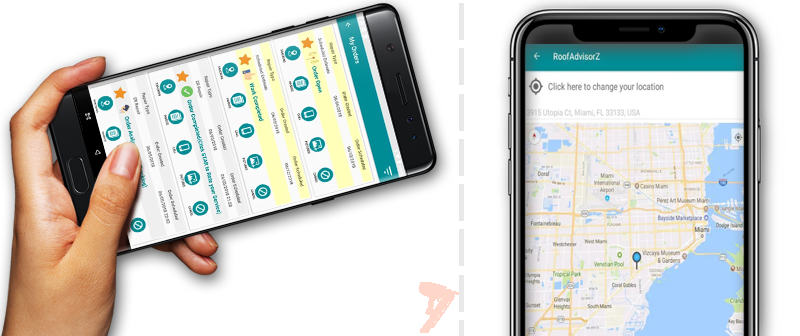
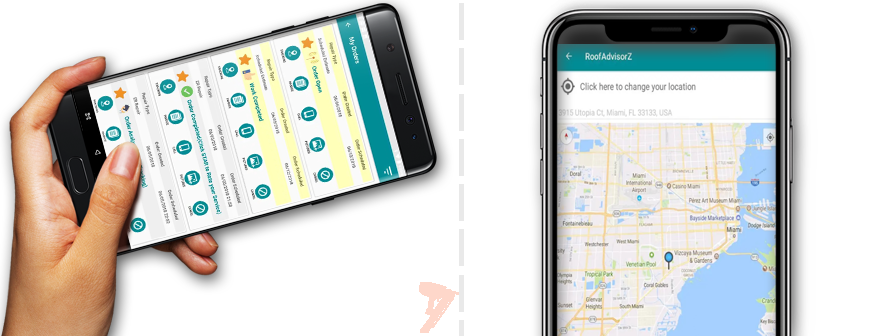
design updates merger mauro funct

diff --git a/src/style.css b/src/style.css
@@ -1368,18 +1368,18 @@ font-size: 144px;
 }
 #appand1{
     float: right;
-    width: 41%;
-    margin-top: -25px;
+    width: 40%;
 }
 #appand2{
     float: left;
-    width: 35%;
+    width: 40%;
 }
 #appphone1{
-display: block;
+    display: block;
     margin-left: auto;
     margin-right: auto;
     margin-bottom: -10px;
+    padding-right: 4%;
 }
 #aphtxt1{
 font-size:5em;
@@ -1771,8 +1771,9 @@ display:none !important;
 .mobpower1{
 display:block !important;
 }
-
-
+.storelogom1{
+margin-top:50px;
+}
 
 
 

diff --git a/src/vista/footer.php b/src/vista/footer.php
@@ -29,7 +29,7 @@
 <!--  blog-area end  -->		
 		<!-- footer-area start -->
 		<footer class="footer-bg">
-			<div style="margin-left:17%" class="footer-top pt-20 pb-10">
+			<div style="margin-left:12%" class="footer-top pt-20 pb-10">
 				<div class="container">
 					<div class="row">
 						<div class="col-lg-3 col-md-3  col-sm-6 mb-20" style="    margin-left: -100px;">
@@ -39,6 +39,7 @@
 								</div>
 								<p>Roof Service Now takes the stress out of finding, selecting, and paying for a roofing contractor</p>
 								<ul class="widget-contact">
+                                                                          </br>
 									<li>
 										<!--<i class="fa fa-map-marker"></i>
 										<span>30 NEWBURY ST,BOSTON, MA.</span>-->
@@ -54,7 +55,7 @@
 								</ul>
 						    </div>
 						</div>
-						<div class="col-lg-5 col-md-6 col-sm-6 mb-20" style="margin-left: 50px;">
+						<div class="col-lg-6 col-md-6 col-sm-6 mb-20" style="margin-left: 50px;">
 							<div class="footer-widget">
 								<h3 class="widget-title"    style="margin-top: 100px;">Site Map</h3>
 								<ul class="footer-menu">

diff --git a/src/vista/begin.php b/src/vista/begin.php
@@ -27,7 +27,7 @@
 <span class="mobiletxthd1" style="font-size:34px;"> <strong><span class="hdtxtorng1">Emergency</span> Roof Repair? </br>Schedule an <span class="hdtxtorng1" >Appointment?</span> </br>Need a <span class="hdtxtorng1">Roof Report</span>?</br>New or Reroof <span class="hdtxtorng1">Estimates</span>?</strong> </span>
 </div>
 </br></br>
-<div class="infdivtxt1">
+<div class="infdivtxt1  container">
 <p class='srvappph1'>
 This is a same day, on-demand service for hiring pre-screened service professionals to fix your leaky roof before the damage is done. On the phone or computer you can:
 </p>
@@ -152,7 +152,7 @@ This app saved the day and is so easy to use. I had water leaking into the house
    </div>
   </div> 
  <div>  
-  <div class="row mobiletop1">
+  <div class="row mobiletop1 storelogom1">
    <div class="col-md-6">
     <img id='appand1' src='img/PlayStore.png'>
    </div>
